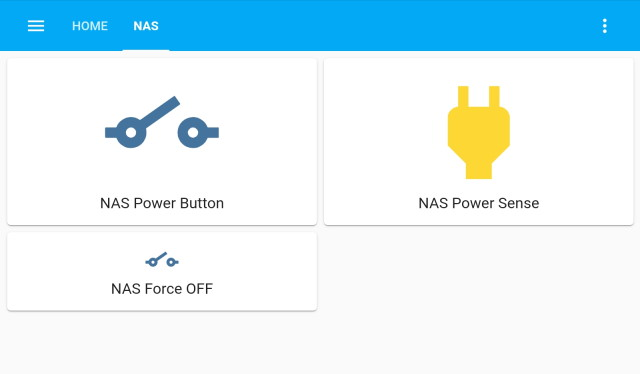
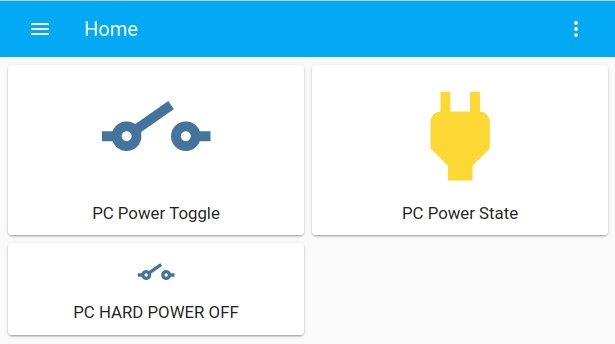
Change pin control timing
- The HA automation script is no longer required and can be removed.
- Renamed button/sense.
- Updated documentation.

diff --git a/README.md b/README.md
@@ -1,31 +1,55 @@
 # ESPHome PC Power Control via Home Assistant
 
-This project contains PC power control via HomeAssistant and ESPHome ESP8266 NodeMCU. I use this project to power my ATX based NAS remotely on and off via Home Assistant.
+This project contains remote PC power control via HomeAssistant and ESPHome ESP8266/ESP32 boards.
 
-Features:
+I use this project to power my PC based NAS remotely on and off via Home Assistant as alternative to Wake-On-Lan (WOL) which has known limitations.
 
-* Short press power button to turn PC on or graceful shutdown.
-* Long press power button to generate hard power-off.
-* Read power status motherboard (is PC turned on or off).
-* Use existing power / reset buttons at the front panel.
+## Features
+
+* Control physical PC power button (front panel) connected to the motherboard:
+  * Turn PC power on from any power state such as `power-off/suspended/hybernate` (Behavior short press power button).
+  * Graceful `shutdown/suspend/hybernate` of the operating system (Behavior short press power button).
+  * Force power-off (Behavior long press power-button).
+* Read PC power on/off status from motherboard.
+* No operating system dependency.
+* Power/reset buttons front panel remains full functional.
+* User authorization via Homeassistant.
+* Use with any (micro/mini)-ATX computer motherboard.
 
 Youtube video:
 
 [![Youtube video](https://img.youtube.com/vi/rAcvqaPf830/0.jpg)](https://www.youtube.com/watch?v=rAcvqaPf830)
 
+Homeassistant screenshot:
+
 ![Screenshot Home Assistant](images/ScreenshotHomeAssistant.jpg)
+
+## Differences Wake-On-Lan (WOL) magic packet
+
+[Wake-On-Lan (WOL)](https://en.wikipedia.org/wiki/Wake-on-LAN) is intended to turn computer power on remotely via Ethernet by sending a so called `magic packet`. This has several known limitations which are not applicable with this ESP project:
+
+* Wake-On-Lan (WOL) has **no authorization**! The WOL protocol has no functionality to provide a password or allow a specific computer to wake from. Any device on the same LAN can wake a PC by sending a magic packet. The ESP is password protected via Homeassistant.
+* Wake-On-Lan (WOL) can only `wake` a PC from suspend or power-off state. There is no shutdown/suspend functionality. 
+* To put a Linux machine in `sleep` state, a SSH connection to the remote PC can be made for example by executing `pm-suspend` command (Install via `sudo apt install pm-utils`), reference [Ubuntu pm-action documentation](https://manpages.ubuntu.com/manpages/jammy/man8/pm-action.8.html). Disadvantages:
+  * Requires SSH login.
+  * Requires sudo rights.
+* Wake-On-Lan magic packets are ignored when connecting main power the first time to the power supply, even when WOL is activated in the BIOS. The reason is that WOL is disabled on most computers at first power on and requires activation by a running operating system before the PC responds on a magic packet to wake the computer. Reference: [Ubuntu Wake-On-Lan](https://help.ubuntu.com/community/WakeOnLan).
+* Running Homeassistant [Wake-On-Lan](https://www.home-assistant.io/integrations/wake_on_lan) in a Docker container cannot forward broadcast magic packets with a bridged network configuration. It requires an external Docker container as bridge to forward magic packages and is beyond the scope of Homeassistant. This is currently not included in Homeassistant documentation.
 
 ## Hardware
 
-The hardware consists of an ESP8266 and two IO pins, mounted on a PCI metal plate (see picture below). In my case I used an ESP8266 NodeMCU board. Theoretically any ESP8266 or ESP32 board can be used for this project.
+The hardware consists of an ESP8266 or ESP32 and two IO pins, mounted on a PCI metal plate (see picture below). In my case I used an ESP8266 NodeMCU board. Theoretically any ESP8266 or ESP32 board can be used for this project.
 
-One pin controls the power button by generating a long or short press and a second pin to read the power status of the ATX motherboard.
+* One pin controls the power button by generating a long or short press
+* A second pin reads the motherboard power status.
 
 ![Hardware](images/NodeMCU.jpg)
 
 ## Schematic
 
-My NAS is based on an Intel Core I7 ASRock Z97 ATX motherboard and contains standard 2x5 male connectors:
+My NAS is based on an Intel Core I7 ASRock Z97 ATX motherboard and contains standard 2.5mm 2x5 male headers:
+
+![Schematic](images/Schematic.png)
 
 **ATX header USB 2.0:**
 
@@ -39,15 +63,15 @@ Header `J2` contains the power, reset and GND pins:
   * Short press: Turn PC on or generate graceful shutdown.
   * Long press: Generate hard power off.
 * Reset button pin 7.
-  * Used to read power status (not for hard reset)
+  * Used to read power status via the reset button pin:
+    * High: power-on
+    * Low: power-off
 * GND pin 5.
 
 * Pin `D1` is used to read the power status from the reset pin: High is on, Low is off. Transistor `Q1` is used for secure isolation between ESP8266 and motherboard.
 * Pin `D2` is used to pull the power button low to generate a short or long press. Resistor `R1` is used to minimize current when the IO pin is accidentally set to output.
 
-All ATX and ESP8266 pins must be operating at 3V3.
-
-![Schematic](images/Schematic.png)
+Warning: All ATX and ESP pins must be operating at 3V3.
 
 ## Downloads
 
@@ -55,11 +79,23 @@ All ATX and ESP8266 pins must be operating at 3V3.
 
 ## Wiring
 
+![Wiring](images/Wiring.jpg)
+
 A DIY breakout PCB can be mounted at the system panel header to connect power button `SW1` and reset button `SW2`.
 
-There is sufficient space in the ATX computer case to mount the ESP8266 board and connecting a USB cable to program the ESP8266.
+## WiFi stability
 
-![Wiring](images/Wiring.jpg)
+There is sufficient space in an ATX computer case to mount the ESP board. However, the computer case is metal shielded, so the WiFi distance to the base station reduces. It is recommended to place the ESP outside the computer case when the WiFi connection is unstable or distance too low. An ESP32 may result in different WiFi connection stability, but overall it depends on the environment.
+
+ESP8266 PCB mounted at the back of the PC case:
+
+![ESP PC mount](images/ESPMount.jpg)
+
+## Software updates
+
+The ESPHome application firmware can be updated via USB connection (virtual serial port) or WiFi OTA (Over The Air update).
+
+Updating the firmware via WiFi is enabled when configuring `ota` in the .yaml file. This requires a WiFi connection between host computer and ESP. OTA update does not work when the login from ESP to WiFi base station fails due to incorrect WiFi credentials. In this case an update via serial is required or via `ap` fallback as configured in the .yaml file.
 
 ## ESPHome
 
@@ -70,7 +106,9 @@ Documentation:
 * [ESPHome GPIO Switch](https://esphome.io/components/switch/gpio.html)
 * [ESPHome Binary Sensor](https://esphome.io/components/binary_sensor/gpio.html)
 
-### pc-power.yaml
+### Project configuration
+
+Configure the `platform` and `board` as described in [ESPHome documentation](https://esphome.io/components/esphome.html) in `pc-power.yaml`:
 
 ```yaml
 esphome:
@@ -90,26 +128,42 @@ wifi:
 # Enable logging
 logger:
 
+# Enable Home Assistant API
 api:
   password: !secret esphome_api_password
+
+# Enable OTA update via WiFi
 ota:
   password: !secret esphome_ota_password
 
 switch:
   - platform: gpio
-    name: "PC Power button"
+    name: "NAS Power Toggle"
     icon: "mdi:electric-switch"
     pin: D2   # Power button output pin
+    id: power_short_press
     inverted: no
-    id: power_pin
+    on_turn_on:
+    - delay: 150ms
+    - switch.turn_off: power_short_press
+  - platform: gpio
+    name: "NAS HARD POWER OFF"
+    icon: "mdi:electric-switch"
+    pin: D2   # Power button output pin
+    id: power_long_press
+    inverted: no
+    on_turn_on:
+    - delay: 3500ms
+    - switch.turn_off: power_long_press
+
 binary_sensor:
   - platform: gpio
-    pin: D1   # Power detect input pin
-    name: "PC Power Sense"
+    pin: D1   # Power detect input pin (readback from Reset button)
+    name: "NAS Power State"
     device_class: power
 ```
 
-### secrets.yaml
+Configure WiFi SSID and passwords in `secrets.yaml`:
 
 ```yaml
 esphome_api_password: "changeme"
@@ -119,11 +173,14 @@ esphome_wifi_ssid: "ssid"
 esphome_wifi_password: "password"
 ```
 
-### Program ESP8266
+### Program ESP8266 or ESP32
 
-Connect USB cable to ESP8266 board and enter the following commands. (Examples are tested on Ubuntu). For more information, refer to [ESPHome.io](https://esphome.io/guides/getting_started_command_line.html).
+Connect USB cable to ESP8266 or ESP32 board and enter the following commands. (Examples are tested on Ubuntu). For more information, refer to [ESPHome.io](https://esphome.io/guides/getting_started_command_line.html).
 
 ```bash
+# Clone this repository
+$ git clone git@github.com:Erriez/ESPHomePCPowerControlHomeAssistant.git
+
 # Install Python3 virtualenv
 $ sudo apt install python3-virtualenv
 
@@ -136,16 +193,27 @@ $ source venv/bin/activate
 # Install ESPHome
 $ pip install esphome
 
+# Optional: Install platformio updates
+$ platformio platform update
+$ platformio upgrade
+
+# Optional: Add user permission serial port
+$ sudo usermod -a -G dialout <USERNAME>
+$ sudo reboot now
+
 # Check ESPHome installation
 $ esphome --help
 
-# Upload program to ESP8266
-$ esphome pc-power.yaml run
+# Optional: Compile program without upload
+$ esphome compile pc-power.yaml
 
-Select serial upload port
+# Upload program to ESP8266 or ESP32
+$ esphome run pc-power.yaml
+
+# Select serial port or WiFi to upload application
 
 # Check logs
-$ esphome pc-power.yaml logs
+$ esphome logs pc-power.yaml
 ```
 
 ## Home Assistant configuration
@@ -156,58 +224,46 @@ This section describes Home Assistant configuration.
 
 * `Configuration | Integrations: Add Integration: ESPHome`
 * Select hostname or IP address of the ESP device.
-* Enter password as configured in `secrets.yml` `esphome_api_password`.
+* Enter password as configured in `secrets.yml` | `esphome_api_password`.
 
-### Create Automation Scripts
+### Homeassistant | Edit Dashboard | RAW Configuration Editor
 
-Two scripts are needed to generate a short and long pulse of the power button.
-
-`Configuration | Scripts | Add script`:
-
-* Name: pc_power_button_short_press
-* Action type: Device
-  * Action: Turn on PC power button
-* Action type: Delay 600ms
-* Action type: Device
-  * Action: Turn off PC power button
-
-`Configuration | Scripts | Add script`:
-
-* Name: pc_power_button_long_press
-* Action type: Device
-  * Action: Turn on PC power button
-* Action type: Delay 5s
-* Action type: Device
-  * Action: Turn off PC power button
-
-### Edit Dashboard | RAW Configuration Editor
+Add PC power integration to a dashboard via raw edit:
 
 ```yaml
+title: Home
+views:
   - title: PC
     path: pc
     badges: []
     cards:
       - type: button
-        entity: switch.pc_power_button
+        entity: switch.pc_power_toggle
         show_name: true
-        tap_action:
-          action: call-service
-          service: script.pc_power_button_short_press
-        name: PC Power Button
       - type: button
         tap_action:
           action: none
-        entity: binary_sensor.pc_power_sense
+        entity: binary_sensor.pc_power_state
         hold_action:
           action: none
       - type: button
-        entity: switch.pc_power_button
-        show_name: true
         tap_action:
-          action: call-service
-          service: script.pc_power_button_long_press
-        name: PC Force OFF
+          action: toggle
+        entity: switch.pc_hard_power_off
         icon_height: 40px
+        show_state: false
+        show_name: true
+        show_icon: true
 ```
 
+## Version history
+
 Restart Home Assistant and ready to go!
+
+### Update 13 February 2022
+
+* The button pin timing controlled via Homeassistant scripts was not stable. The power pin control has been moved to the ESP firmware which generates a much more accurate timing.
+* Renamed the following names:
+  * Rename `switch.pc_power_button` to `switch.pc_power_toggle`.
+  * Rename `switch.pc_power_button_long_press` to `switch.pc_hard_power_off`.
+  * Rename `switch.pc_power_sense` to `switch.pc_power_state`.
